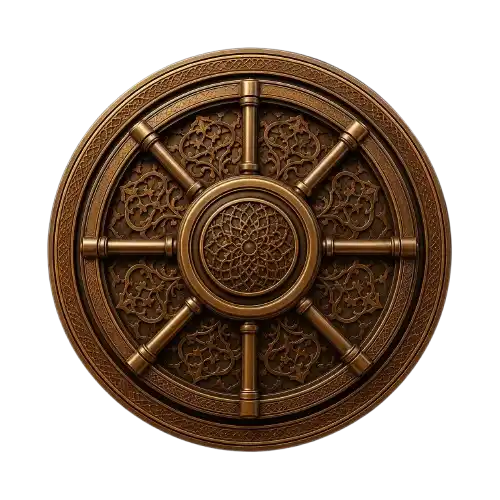
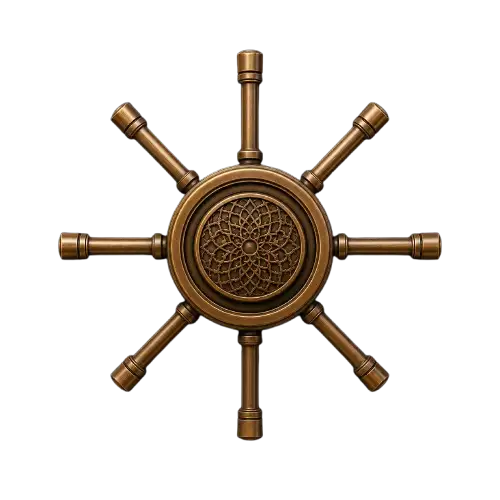
change wheel

diff --git a/src/entities/lottery/lottery-code-panel/lottery-code-panel.tsx b/src/entities/lottery/lottery-code-panel/lottery-code-panel.tsx
@@ -2,6 +2,8 @@
 
 import { useMemo, useRef, useState } from "react";
 import type { ChangeEvent } from "react";
+import LockIcon from "@/shared/svg/lock.svg?react";
+import UnlockIcon from "@/shared/svg/un-lock.svg?react";
 import { spinWheelOnCodeInput } from "../model/wheel-spin-bridge";
 
 const CODE_LENGTH = 4;
@@ -32,28 +34,64 @@ function triggerCodeHapticFeedback() {
   window.Telegram?.WebApp?.HapticFeedback?.impactOccurred?.("soft");
 }
 
+function triggerLockHapticFeedback() {
+  window.Telegram?.WebApp?.HapticFeedback?.impactOccurred?.("rigid");
+}
+
+function triggerErrorHapticFeedback() {
+  window.Telegram?.WebApp?.HapticFeedback?.notificationOccurred?.("error");
+  window.Telegram?.WebApp?.HapticFeedback?.impactOccurred?.("heavy");
+}
+
 export default function LotteryCodePanel() {
   const inputRef = useRef<HTMLInputElement | null>(null);
   const [code, setCode] = useState("");
   const [isFocused, setIsFocused] = useState(false);
+  const [hasSubmitAttempt, setHasSubmitAttempt] = useState(false);
+  const [isCodeLocked, setIsCodeLocked] = useState(false);
   const activeIndex = code.length < CODE_LENGTH ? code.length : null;
   const digits = useMemo(() => Array.from({ length: CODE_LENGTH }, (_, index) => code[index] ?? ""), [code]);
+  const hasMissingDigits = code.length < CODE_LENGTH;
 
   function focusInput() {
+    if (isCodeLocked) {
+      return;
+    }
+
     inputRef.current?.focus();
   }
 
   function handleInputChange(event: ChangeEvent<HTMLInputElement>) {
+    if (isCodeLocked) {
+      return;
+    }
+
     const nextCode = normalizeCodeInput(event.currentTarget.value);
 
     setCode((previousCode) => {
       if (nextCode !== previousCode) {
+        setHasSubmitAttempt(false);
         spinWheelOnCodeInput();
         triggerCodeHapticFeedback();
       }
 
       return nextCode;
     });
+  }
+
+  function lockCode() {
+    if (isCodeLocked) {
+      return;
+    }
+
+    if (hasMissingDigits) {
+      setHasSubmitAttempt(true);
+      triggerErrorHapticFeedback();
+      return;
+    }
+
+    setIsCodeLocked(true);
+    triggerLockHapticFeedback();
   }
 
   return (
@@ -72,6 +110,7 @@ export default function LotteryCodePanel() {
         autoComplete="one-time-code"
         enterKeyHint="done"
         aria-label="Код из 4 цифр"
+        disabled={isCodeLocked}
         onBlur={() => setIsFocused(false)}
         onChange={handleInputChange}
         onFocus={() => setIsFocused(true)}
@@ -80,10 +119,13 @@ export default function LotteryCodePanel() {
       <div className="lottery-code-panel__slots">
         {digits.map((digit, index) => {
           const isActive = isFocused && activeIndex === index;
+          const isInvalid = hasSubmitAttempt && !digit;
           const slotClassName = [
             "lottery-code-panel__slot",
             digit ? "lottery-code-panel__slot--filled" : "",
-            isActive ? "lottery-code-panel__slot--active" : ""
+            isActive ? "lottery-code-panel__slot--active" : "",
+            isCodeLocked ? "lottery-code-panel__slot--locked" : "",
+            isInvalid ? "lottery-code-panel__slot--invalid" : ""
           ]
             .filter(Boolean)
             .join(" ");
@@ -93,7 +135,8 @@ export default function LotteryCodePanel() {
               className={slotClassName}
               key={index}
               type="button"
-              aria-label={`Цифра ${index + 1}`}
+              aria-label={`Цифра ${index + 1}${isCodeLocked ? ", зафиксирована" : ""}`}
+              disabled={isCodeLocked}
               onClick={focusInput}
             >
               {digit ? (
@@ -104,6 +147,25 @@ export default function LotteryCodePanel() {
             </button>
           );
         })}
+
+        <button
+          className={[
+            "lottery-code-panel__lock-button",
+            isCodeLocked ? "lottery-code-panel__lock-button--locked" : "",
+            hasSubmitAttempt && hasMissingDigits ? "lottery-code-panel__lock-button--invalid" : ""
+          ]
+            .filter(Boolean)
+            .join(" ")}
+          type="button"
+          disabled={isCodeLocked}
+          aria-label={isCodeLocked ? `Код ${code} зафиксирован` : "Зафиксировать код"}
+          onClick={(event) => {
+            event.stopPropagation();
+            lockCode();
+          }}
+        >
+          {isCodeLocked ? <LockIcon aria-hidden="true" /> : <UnlockIcon aria-hidden="true" />}
+        </button>
       </div>
     </div>
   );

diff --git a/src/entities/lottery/lottery-code-panel/lottery-code-panel.scss b/src/entities/lottery/lottery-code-panel/lottery-code-panel.scss
@@ -20,7 +20,8 @@
 
 .lottery-code-panel__slots {
   width: 100%;
-  display: flex;
+  display: grid;
+  grid-template-columns: repeat(5, clamp(58px, 18vw, 84px));
   justify-content: center;
   gap: clamp(8px, 2.6vw, 14px);
   direction: inherit;
@@ -41,13 +42,24 @@
   padding: 0;
   cursor: pointer;
   filter: drop-shadow(0 8px 16px rgba(0, 0, 0, 0.35));
+  overflow: hidden;
+  user-select: none;
   transition:
+    opacity 180ms ease,
     filter 180ms ease,
     transform 180ms ease;
 
   &:active {
     transform: translateY(1px);
   }
+
+  &:disabled {
+    cursor: default;
+  }
+}
+
+.lottery-code-panel__slot--filled {
+  filter: brightness(1.08) drop-shadow(0 8px 16px rgba(0, 0, 0, 0.35));
 }
 
 .lottery-code-panel__slot--active {
@@ -56,8 +68,15 @@
   transform: translateY(-2px);
 }
 
-.lottery-code-panel__slot--filled {
-  filter: brightness(1.08) drop-shadow(0 8px 16px rgba(0, 0, 0, 0.35));
+.lottery-code-panel__slot--locked {
+  opacity: 0.86;
+  filter: saturate(0.84) brightness(0.98) drop-shadow(0 8px 16px rgba(0, 0, 0, 0.35));
+  transform: scale(0.96);
+}
+
+.lottery-code-panel__slot--invalid {
+  filter: brightness(1.04) drop-shadow(0 0 12px rgba(s.$color-error, 0.72))
+    drop-shadow(0 8px 16px rgba(0, 0, 0, 0.35));
 }
 
 .lottery-code-panel__digit {
@@ -66,6 +85,7 @@
   font-weight: 800;
   line-height: 1;
   font-variant-numeric: tabular-nums;
+  animation: lottery-code-digit-spin 220ms ease;
   text-shadow:
     0 2px 0 rgba(0, 0, 0, 0.45),
     0 0 14px rgba(255, 200, 74, 0.38);
@@ -77,4 +97,79 @@
   border-radius: 50%;
   background: rgba(246, 238, 227, 0.46);
   box-shadow: 0 0 12px rgba(255, 216, 102, 0.2);
+}
+
+.lottery-code-panel__slot--invalid .lottery-code-panel__placeholder {
+  background: s.$color-error;
+  box-shadow: 0 0 14px rgba(s.$color-error, 0.72);
+}
+
+.lottery-code-panel__lock-button {
+  width: clamp(58px, 18vw, 84px);
+  aspect-ratio: 388 / 377;
+  border: 0;
+  background-color: transparent;
+  background-image: url("/src/shared/images/numbers.webp");
+  background-repeat: no-repeat;
+  background-position: center;
+  background-size: 100% 100%;
+  color: #fff1c6;
+  cursor: pointer;
+  display: grid;
+  place-items: center;
+  padding: clamp(16px, 5vw, 24px);
+  filter: brightness(1.08) drop-shadow(0 8px 16px rgba(0, 0, 0, 0.35));
+  transition:
+    filter 180ms ease,
+    opacity 180ms ease,
+    transform 180ms ease;
+
+  svg {
+    width: 100%;
+    height: 100%;
+  }
+
+  &:active {
+    transform: translateY(1px);
+  }
+
+  &:disabled {
+    color: rgba(255, 241, 198, 0.58);
+    cursor: default;
+    filter: saturate(0.84) brightness(0.98) drop-shadow(0 8px 16px rgba(0, 0, 0, 0.35));
+    opacity: 0.86;
+  }
+}
+
+.lottery-code-panel__lock-button--locked {
+  color: rgba(255, 241, 198, 0.58);
+}
+
+.lottery-code-panel__lock-button--invalid {
+  color: s.$color-error;
+  filter: brightness(1.04) drop-shadow(0 0 12px rgba(s.$color-error, 0.72))
+    drop-shadow(0 8px 16px rgba(0, 0, 0, 0.35));
+}
+
+@media (max-width: 430px) {
+  .lottery-code-panel__slots {
+    grid-template-columns: repeat(4, clamp(58px, 18vw, 84px));
+  }
+
+  .lottery-code-panel__lock-button {
+    grid-column: 4;
+    justify-self: end;
+  }
+}
+
+@keyframes lottery-code-digit-spin {
+  0% {
+    opacity: 0;
+    transform: translateY(-42%) rotateX(68deg);
+  }
+
+  100% {
+    opacity: 1;
+    transform: translateY(0) rotateX(0deg);
+  }
 }

diff --git a/src/entities/lottery/lottery-scene/lottery-scene.scss b/src/entities/lottery/lottery-scene/lottery-scene.scss
@@ -100,7 +100,7 @@
   left: 50%;
   top: 50%;
   z-index: 3;
-  width: 40%;
+  width: 65%;
   transform: translate(-50%, -50%) rotate(var(--wheel-rotation));
   transform-origin: center;
   transition: transform 520ms cubic-bezier(0.2, 0.95, 0.35, 1);

diff --git a/src/shared/styles/_tokens.scss b/src/shared/styles/_tokens.scss
@@ -2,6 +2,7 @@ $color-black: #000;
 $color-warm-overlay: #161616;
 $color-warm-strong: #f6eee3cc;
 $color-border-soft: #f6eee355;
+$color-error: #ff4242;
 $color-ink: #000;
 $focus-ring: #f6eee399;
 
